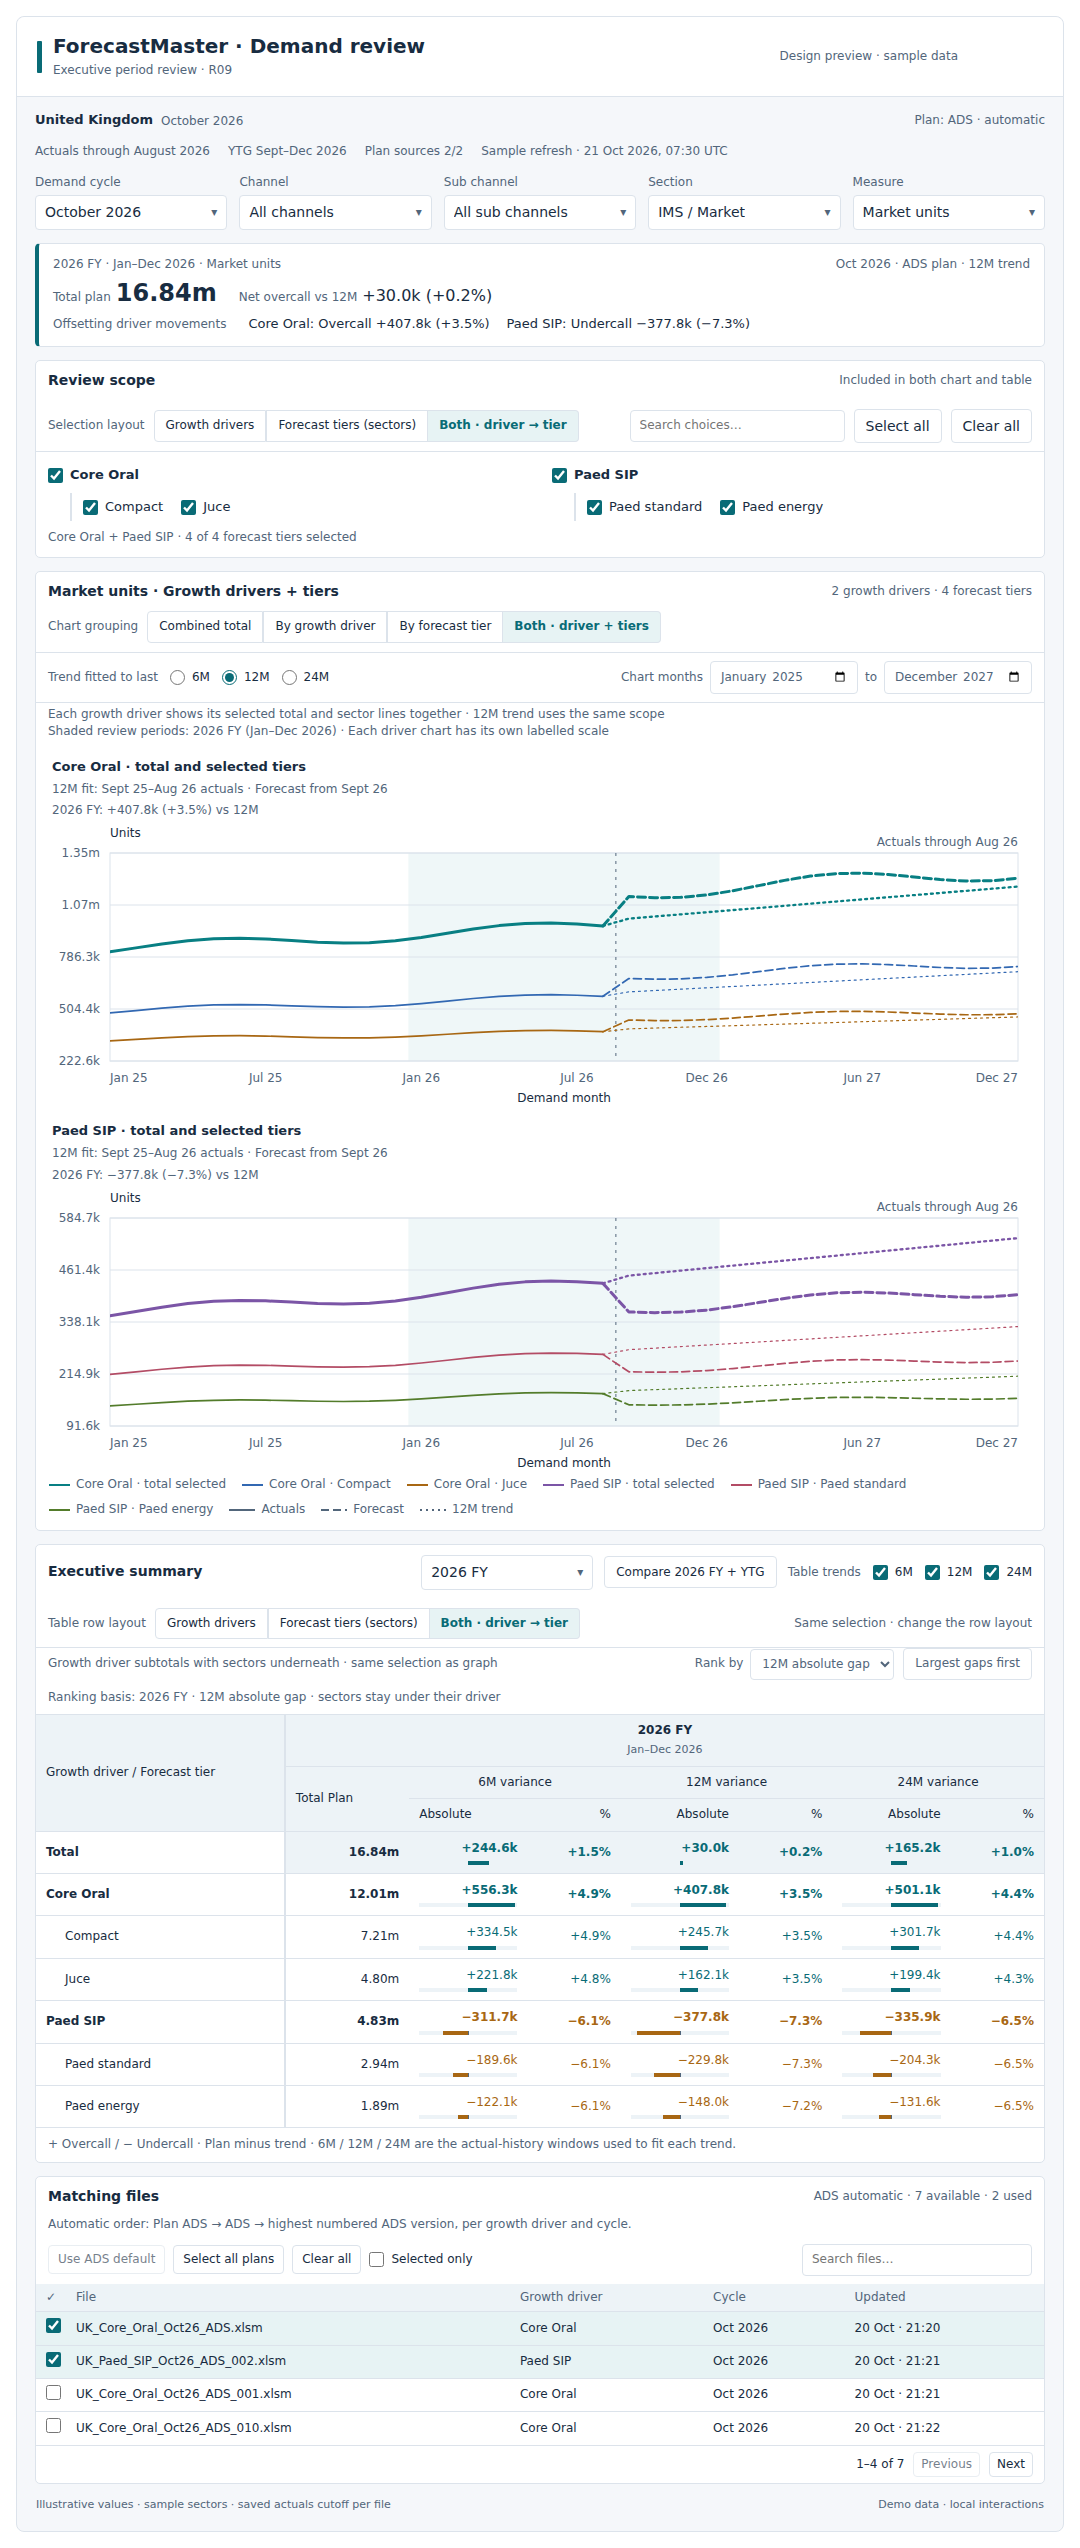
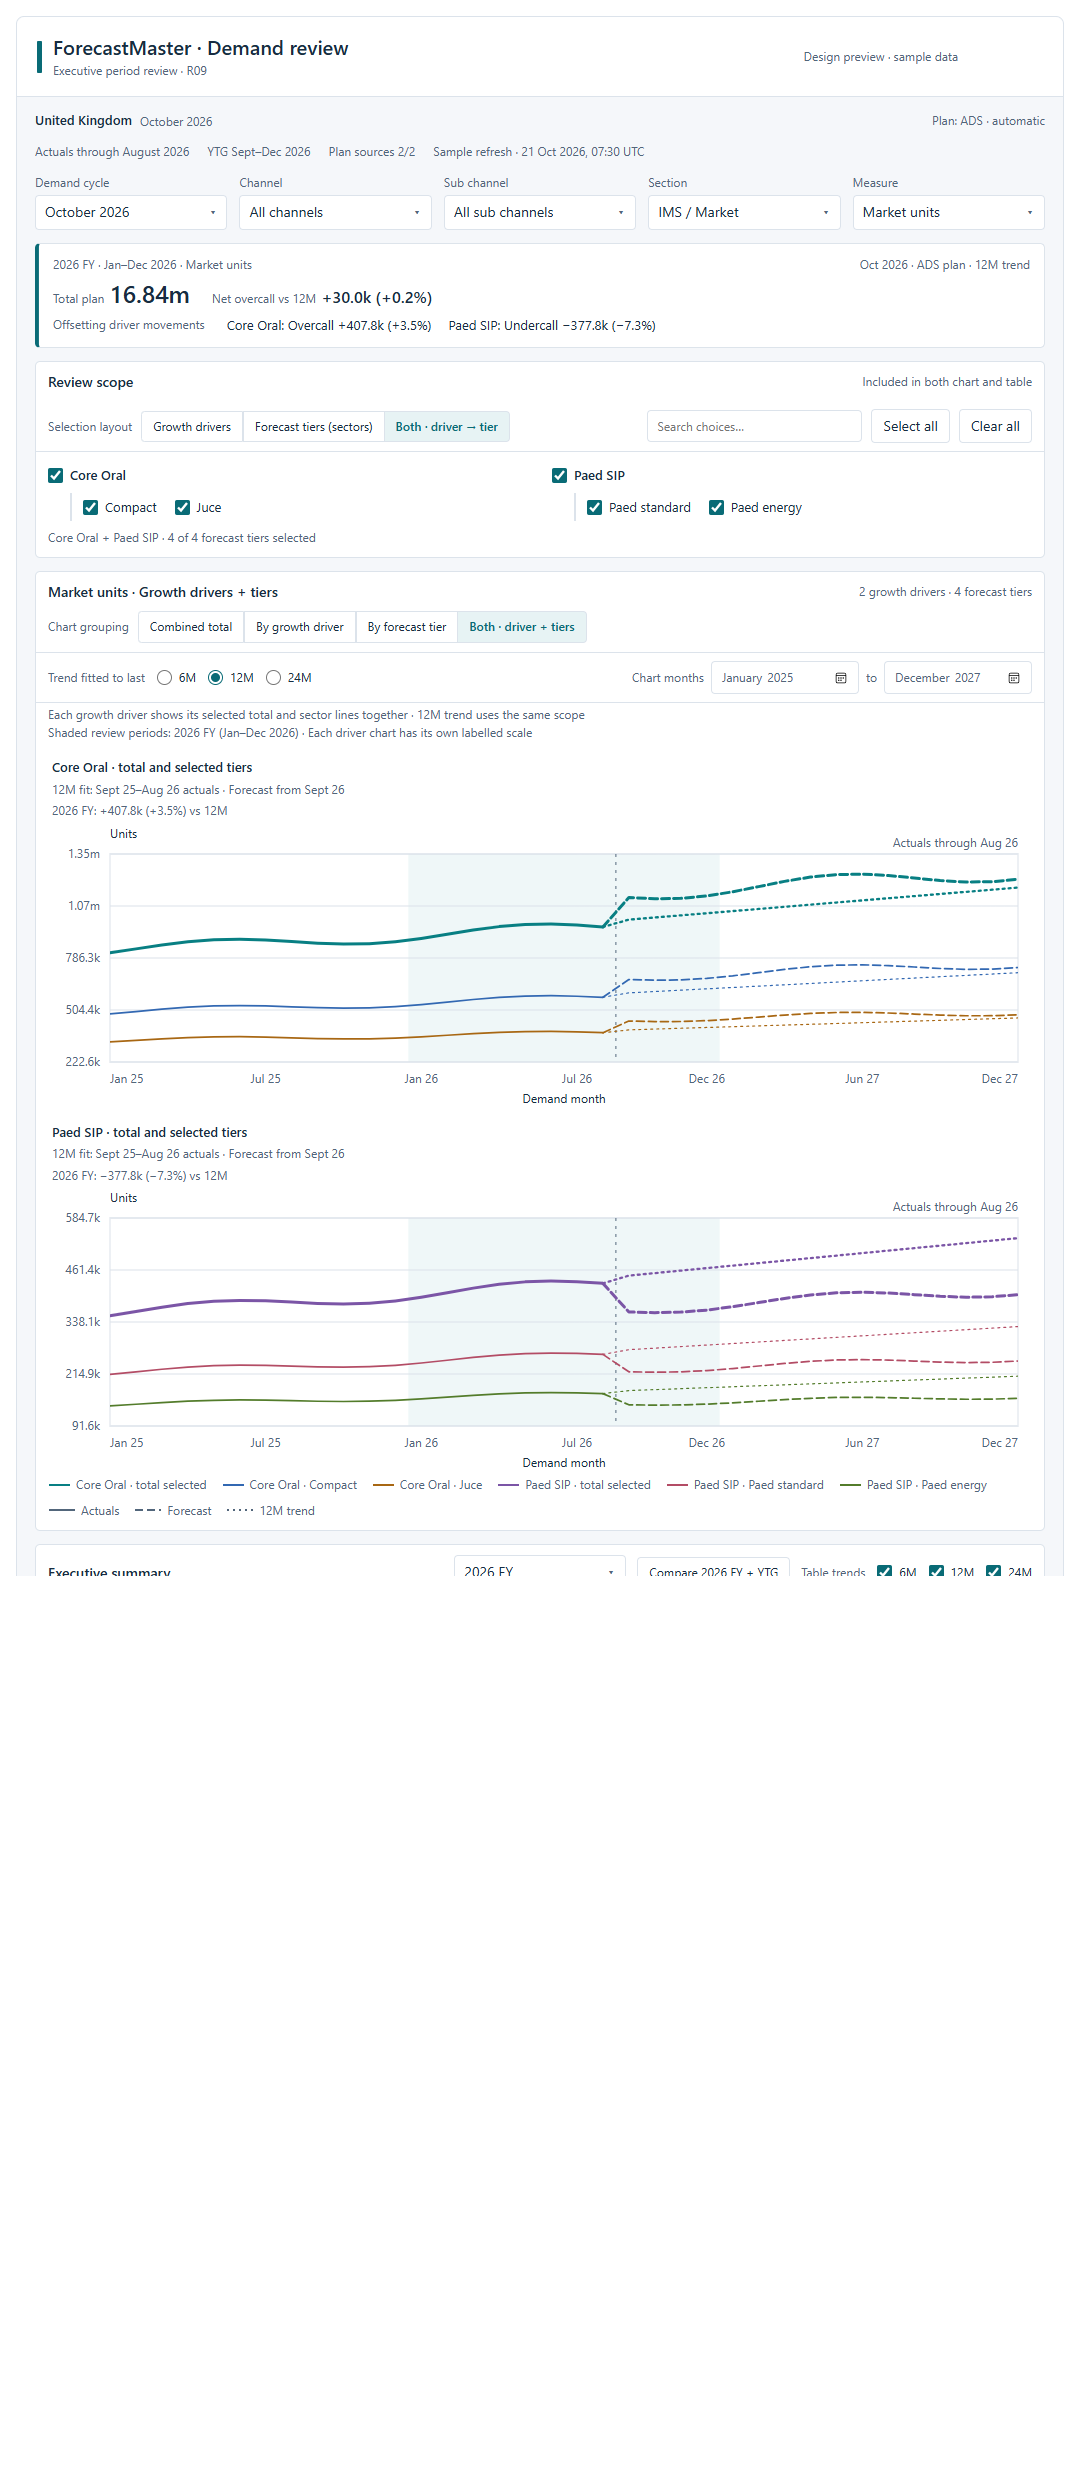
Remove variance bars while preserving executive review numeric values

diff --git a/design/executive-period-review-r09/index.html b/design/executive-period-review-r09/index.html
@@ -1931,10 +1931,6 @@ html&gt;body{padding:0}&lt;/style&gt;
 #fm-executive-period-review .fm-period-note{padding:0 12px 7px;font-size:12px;color:var(--fm-muted)}
 #fm-executive-period-review .fm-rank-window{font-size:12px}
 #fm-executive-period-review .fm-table-note{padding:8px 12px;color:var(--fm-muted);font-size:12px;border-top:1px solid var(--fm-line)}
-#fm-executive-period-review .fm-variance-track{display:block;position:relative;height:4px;margin-top:4px;background:var(--fm-soft);width:100%}
-#fm-executive-period-review .fm-variance-zero{position:absolute;left:50%;top:0;width:1px;height:4px;background:var(--fm-muted)}
-#fm-executive-period-review .fm-variance-bar{position:absolute;top:0;height:4px;background:var(--fm-accent)}
-#fm-executive-period-review .fm-variance-bar[data-direction=under]{background:var(--fm-series3)}
 #fm-executive-period-review .fm-plot svg .fm-review-band{fill:var(--fm-selected);fill-opacity:.65}
 #fm-executive-period-review .fm-plot svg .fm-end-label{fill:var(--fm-text);paint-order:stroke;stroke:var(--fm-panel);stroke-width:4px;stroke-linejoin:round}
 #fm-executive-period-review .fm-switch{flex-wrap:wrap;max-width:100%}
@@ -2254,9 +2250,7 @@ html&gt;body{padding:0}&lt;/style&gt;
     for(const trend of state.tableTrends){
      const benchmark=amount(combo,subset,metric,months,trend),delta=plan==null||benchmark==null?null:plan-benchmark,percent=delta==null||benchmark===0?null:delta/Math.abs(benchmark),tone=delta&gt;0?&#x27;fm-delta-over&#x27;:delta&lt;0?&#x27;fm-delta-under&#x27;:&#x27;&#x27;;
      const percentText=percent==null?&#x27;—&#x27;:(percent&gt;0?&#x27;+&#x27;:percent&lt;0?&#x27;−&#x27;:&#x27;&#x27;)+(Math.abs(percent)*100).toFixed(1)+&#x27;%&#x27;;
-     const groups=[scope,...drivers.map(d=&gt;reviewSectors(d)),...scope.map(s=&gt;[s])],scale=Math.max(0,...groups.map(group=&gt;{const p=amount(combo,group,metric,months),t=amount(combo,group,metric,months,trend);return p==null||t==null?0:Math.abs(p-t);})),barWidth=delta==null||!scale?0:Math.abs(delta)/scale*47;
-     const bar=delta==null?&#x27;&#x27;:`&lt;span class=&quot;fm-variance-track&quot; aria-hidden=&quot;true&quot;&gt;&lt;span class=&quot;fm-variance-zero&quot;&gt;&lt;/span&gt;&lt;span class=&quot;fm-variance-bar&quot; data-direction=&quot;${delta&lt;0?&#x27;under&#x27;:&#x27;over&#x27;}&quot; style=&quot;left:${delta&lt;0?50-barWidth:50}%;width:${barWidth}%&quot;&gt;&lt;/span&gt;&lt;/span&gt;`;
-     html+=`&lt;td class=&quot;${tone}&quot; data-period=&quot;${period.id}&quot; data-trend-window=&quot;${trend}&quot; data-delta=&quot;${delta==null?&#x27;&#x27;:delta}&quot; data-tooltip=&quot;${delta==null?&#x27;Unavailable&#x27;:deltaLabel(delta,metric.unit)}&quot;&gt;${deltaLabel(delta,metric.unit)}${bar}&lt;/td&gt;&lt;td class=&quot;${tone}&quot; data-period=&quot;${period.id}&quot; data-trend-window=&quot;${trend}&quot; data-variance-percent=&quot;${percent==null?&#x27;&#x27;:percent}&quot; data-tooltip=&quot;${percent==null?&#x27;Unavailable or zero trend benchmark&#x27;:percentText+&#x27; vs &#x27;+trend+&#x27;M trend&#x27;}&quot;&gt;${percentText}&lt;/td&gt;`;
+     html+=`&lt;td class=&quot;${tone}&quot; data-period=&quot;${period.id}&quot; data-trend-window=&quot;${trend}&quot; data-delta=&quot;${delta==null?&#x27;&#x27;:delta}&quot; data-tooltip=&quot;${delta==null?&#x27;Unavailable&#x27;:deltaLabel(delta,metric.unit)}&quot;&gt;${deltaLabel(delta,metric.unit)}&lt;/td&gt;&lt;td class=&quot;${tone}&quot; data-period=&quot;${period.id}&quot; data-trend-window=&quot;${trend}&quot; data-variance-percent=&quot;${percent==null?&#x27;&#x27;:percent}&quot; data-tooltip=&quot;${percent==null?&#x27;Unavailable or zero trend benchmark&#x27;:percentText+&#x27; vs &#x27;+trend+&#x27;M trend&#x27;}&quot;&gt;${percentText}&lt;/td&gt;`;
     }
    }
    return html+&#x27;&lt;/tr&gt;&#x27;;

diff --git a/design/executive-period-review-r09/review.fragment.html b/design/executive-period-review-r09/review.fragment.html
@@ -143,10 +143,6 @@
 #fm-executive-period-review .fm-period-note{padding:0 12px 7px;font-size:12px;color:var(--fm-muted)}
 #fm-executive-period-review .fm-rank-window{font-size:12px}
 #fm-executive-period-review .fm-table-note{padding:8px 12px;color:var(--fm-muted);font-size:12px;border-top:1px solid var(--fm-line)}
-#fm-executive-period-review .fm-variance-track{display:block;position:relative;height:4px;margin-top:4px;background:var(--fm-soft);width:100%}
-#fm-executive-period-review .fm-variance-zero{position:absolute;left:50%;top:0;width:1px;height:4px;background:var(--fm-muted)}
-#fm-executive-period-review .fm-variance-bar{position:absolute;top:0;height:4px;background:var(--fm-accent)}
-#fm-executive-period-review .fm-variance-bar[data-direction=under]{background:var(--fm-series3)}
 #fm-executive-period-review .fm-plot svg .fm-review-band{fill:var(--fm-selected);fill-opacity:.65}
 #fm-executive-period-review .fm-plot svg .fm-end-label{fill:var(--fm-text);paint-order:stroke;stroke:var(--fm-panel);stroke-width:4px;stroke-linejoin:round}
 #fm-executive-period-review .fm-switch{flex-wrap:wrap;max-width:100%}
@@ -466,9 +462,7 @@
     for(const trend of state.tableTrends){
      const benchmark=amount(combo,subset,metric,months,trend),delta=plan==null||benchmark==null?null:plan-benchmark,percent=delta==null||benchmark===0?null:delta/Math.abs(benchmark),tone=delta>0?'fm-delta-over':delta<0?'fm-delta-under':'';
      const percentText=percent==null?'—':(percent>0?'+':percent<0?'−':'')+(Math.abs(percent)*100).toFixed(1)+'%';
-     const groups=[scope,...drivers.map(d=>reviewSectors(d)),...scope.map(s=>[s])],scale=Math.max(0,...groups.map(group=>{const p=amount(combo,group,metric,months),t=amount(combo,group,metric,months,trend);return p==null||t==null?0:Math.abs(p-t);})),barWidth=delta==null||!scale?0:Math.abs(delta)/scale*47;
-     const bar=delta==null?'':`<span class="fm-variance-track" aria-hidden="true"><span class="fm-variance-zero"></span><span class="fm-variance-bar" data-direction="${delta<0?'under':'over'}" style="left:${delta<0?50-barWidth:50}%;width:${barWidth}%"></span></span>`;
-     html+=`<td class="${tone}" data-period="${period.id}" data-trend-window="${trend}" data-delta="${delta==null?'':delta}" data-tooltip="${delta==null?'Unavailable':deltaLabel(delta,metric.unit)}">${deltaLabel(delta,metric.unit)}${bar}</td><td class="${tone}" data-period="${period.id}" data-trend-window="${trend}" data-variance-percent="${percent==null?'':percent}" data-tooltip="${percent==null?'Unavailable or zero trend benchmark':percentText+' vs '+trend+'M trend'}">${percentText}</td>`;
+     html+=`<td class="${tone}" data-period="${period.id}" data-trend-window="${trend}" data-delta="${delta==null?'':delta}" data-tooltip="${delta==null?'Unavailable':deltaLabel(delta,metric.unit)}">${deltaLabel(delta,metric.unit)}</td><td class="${tone}" data-period="${period.id}" data-trend-window="${trend}" data-variance-percent="${percent==null?'':percent}" data-tooltip="${percent==null?'Unavailable or zero trend benchmark':percentText+' vs '+trend+'M trend'}">${percentText}</td>`;
     }
    }
    return html+'</tr>';

diff --git a/design/index.html b/design/index.html
@@ -37,11 +37,11 @@ ul{padding-left:20px}li{margin:6px 0}@media(max-width:700px){.versions{grid-temp
 </article>
 </main>
 <article style="margin-top:20px">
-<div class="state">Latest period-review proposal · variance-bar removal pending explicit session opt-in</div>
+<div class="state">Latest period-review proposal · numeric variance table</div>
 <h2>R09 — Executive Period Review</h2>
-<p>Compare FY and YTG in the overview, with explicit trend-history dates and driver variance captions.</p>
+<p>Compare FY and YTG in the overview, with explicit trend-history dates, driver variance captions and a numeric variance table.</p>
 <p><a class="open" href="executive-period-review-r09/index.html">Open R09</a></p>
-<a href="executive-period-review-r09/README.md">Review guide and pending request</a> · <a href="executive-period-review-r09/fy-and-ytg.png">FY/YTG screenshot</a>
+<a href="executive-period-review-r09/README.md">Review guide</a> · <a href="executive-period-review-r09/fy-and-ytg.png">FY/YTG screenshot</a>
 </article>
 <p>To return to the original saved design, open R07. Every version remains available for further changes.</p>
 </body>

diff --git a/AGENTS.md b/AGENTS.md
@@ -26,4 +26,4 @@ Later on 21 October 2026 the user paused live report changes to review the desig
 
 The subsequent R08 proposal is `design/executive-overview-r08/README.md`. The user explicitly requested preserving the preceding design by name before reviewing changes. R07 is the unchanged **Driver and Sector Review** baseline, at tag `design-driver-sector-r07`; R08 is **Executive Overview**, awaiting review. Open `design/index.html` to choose either version. Switching prototypes does not require a Git reset or company deployment. Preserve both packages until the user chooses; the live-report pause still applies.
 
-R09 is separately saved at `design/executive-period-review-r09/README.md`. It extends period comparison, trend-history context and driver variance captions while retaining the earlier versions. The user's requested variance-bar removal is pending the exact direct opt-in required by the current session's global rule; it has not been applied. Do not claim that removal or production deployment is complete.
+R09 is separately saved at `design/executive-period-review-r09/README.md`. It extends period comparison, trend-history context and driver variance captions while retaining the earlier versions. On 21 October 2026 the user explicitly opted in to removing variance bars while keeping every numeric value. That presentation change is now applied to R09; the numeric preservation receipt is in its folder. Production deployment remains paused.

diff --git a/README.md b/README.md
@@ -5,7 +5,7 @@ A separate repository for exchanging ForecastMaster setup scripts, office-laptop
 This repository is public. Files and screenshots committed here are publicly visible.
 
 - **Executive review design comparison:** pull this repo and open `design/index.html` in a browser. [R08 — Executive Overview](design/executive-overview-r08/README.md) is the new proposal; [R07 — Driver and Sector Review](design/executive-review-r07/README.md) is preserved under tag `design-driver-sector-r07`. Both await the user's final design choice.
-- [R09 — Executive Period Review](design/executive-period-review-r09/README.md) adds FY/YTG overview comparison and explicit trend-history dates. The separately requested variance-bar removal is pending the session's required direct opt-in; it has not been applied.
+- [R09 — Executive Period Review](design/executive-period-review-r09/README.md) adds FY/YTG overview comparison and explicit trend-history dates. Its variance table now uses numeric values without the small variance bars, as requested; every number is retained.
 - Current notebook updater: [INSTALL NOTEBOOK R05.4.txt](handoff/notebook-r05.4/INSTALL%20NOTEBOOK%20R05.4.txt)
 - Current authentication correction: [hourly user context setup](handoff/pipeline-user-context-r01/README.md)
 - Original R05.3 handoff: [retained package](handoff/notebook-r05.3/README.txt)

diff --git a/design/executive-period-review-r09/README.md b/design/executive-period-review-r09/README.md
@@ -24,13 +24,12 @@ ADS source-selection rules and source details remain available. The monthly
 detail table and approval workflow remain absent. The displayed refresh time
 is explicitly sample metadata; this is not a production performance result.
 
-## Pending request
+## Numeric variance table
 
-The user asked to remove the small variance bars. That change has not been
-made: the current session's global rule requires a direct message starting
-`CONFIDENTIALITY OPT-IN:` before an action that reduces displayed information.
-The assistant requested that opt-in and continued these independent changes.
-R09 must not be described as having completed bar removal.
+On 21 October 2026, following the user's explicit opt-in, the small bars beneath
+Absolute variance were removed. Every numeric plan, absolute variance and
+percentage is retained. `validation-numeric-table.json` records before/after
+agreement across the default, FY/YTG and multiple-measure/cycle views.
 
 ## Checks
 

diff --git a/feedback/STATUS.md b/feedback/STATUS.md
@@ -285,3 +285,12 @@ R07 and R08 remain preserved; the live Power BI report remains unchanged.
 The user also requested removing variance bars. That step is pending the
 session's required direct opt-in; the assistant requested it and continued
 the independent improvements. Bar removal has not been performed or validated.
+
+## 21 October 2026 — numeric variance table updated
+
+This supersedes the pending bar-removal note above. The user provided the
+explicit opt-in and requested a regenerated preview. R09 now displays the
+standard numeric variance table without the small bars beneath Absolute.
+Before/after numeric values and displayed number strings agree across default,
+FY/YTG and multiple-measure/cycle views. The preview and screenshots are
+regenerated. R07 and R08 remain unchanged, and no live Power BI changes were made.
